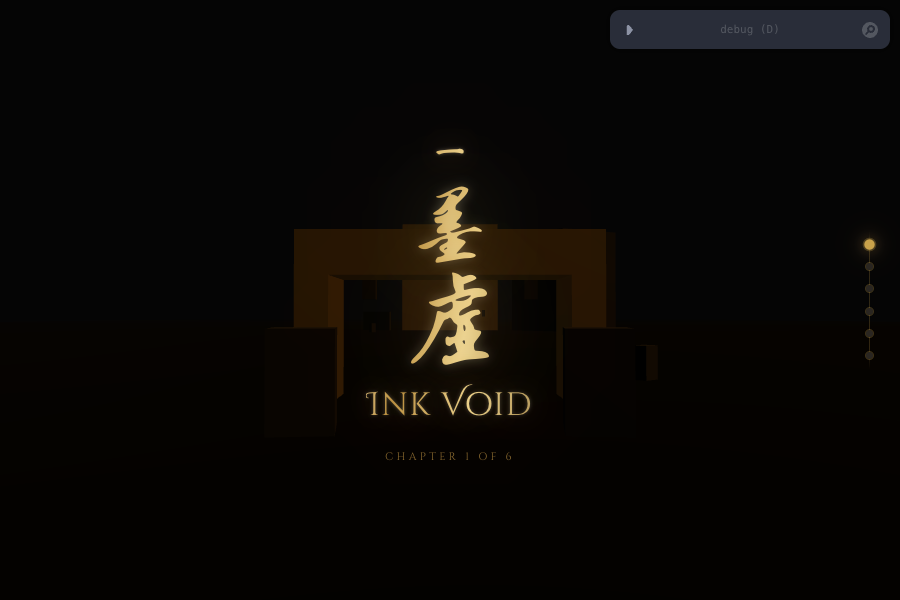
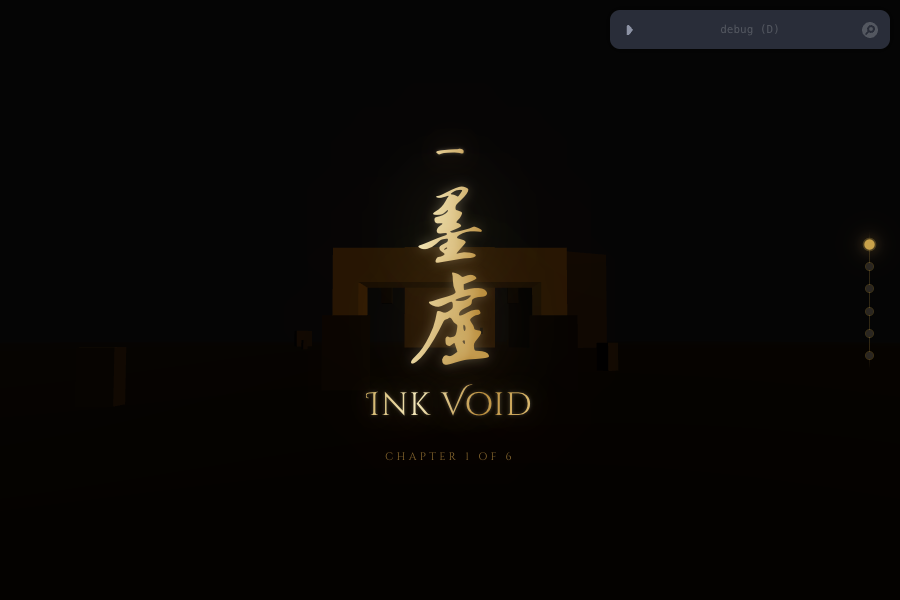
tune: hold names a keypoint instead of a scroll position
Chapter 3's hero frame was empty sky. At the hold the camera sat at
z=-315 — 75 m past the pagoda, already in the hand-off to chapter 4.

Cause: hold.at was a scroll position, but slowing one window makes
everything outside it proportionally faster, so at=0.78 resolved to
0.91 of the path. Same class of bug as the chapter 4 hold earlier.

hold is now { on: <keypoint index>, width, slow } and resolveHoldAt()
solves the fixed point for the scroll position. The hold cannot land
somewhere unintended, and the config reads the way the beat is actually
described: 'hold framed in the gate opening' is hold.on = 3.

Also widened chapter 5's search to ~13 m off the dragon's flank — at
4 m a 40 m body fills the frame, so there was nothing left to reveal —
and moved chapter 6's hold one keypoint earlier so the final settle is
still a distinct frame.

diff --git a/src/config/chapters.ts b/src/config/chapters.ts
@@ -45,11 +45,20 @@ export interface Chapter {
   /** Look-at keypoints. Independent of position, so the camera can orbit. */
   lookAt: Vec3[];
   /**
-   * The hero beat. `at` is 0–1 within the chapter; `width` how much of the
-   * chapter it occupies; `slow` the speed multiplier inside it (0.2 = a fifth
-   * of normal pace, so the camera nearly stops).
+   * The hero beat.
+   *
+   * `on` is the KEYPOINT the camera should be sitting on when it slows —
+   * not a scroll position. That distinction matters: slowing one window makes
+   * everything outside it proportionally faster, so a hold "at 0.78 of the
+   * scroll" lands at 0.91 of the path. Twice now that has silently put a hero
+   * frame in the hand-off to the next chapter. Naming the keypoint and solving
+   * for the scroll position (see resolveHoldAt) makes that impossible.
+   *
+   * `width` is how much of the chapter's scroll the hold occupies (0.3–0.4
+   * reads as a real pause); `slow` is the speed multiplier inside it, where
+   * 0.1 is almost stopped.
    */
-  hold: { at: number; width: number; slow: number };
+  hold: { on: number; width: number; slow: number };
   props: PropPlacement[];
 }
 
@@ -77,8 +86,8 @@ export const CHAPTERS: Chapter[] = [
     // travel, and it doubles as the hand-off to the gate.
     camera: [[0, 1.55, 9], [0, 1.65, 5.2], [0, 1.9, -1.5], [0, 6.0, -16]],
     lookAt: [[0, 1.8, -5], [2.6, 2.0, -7.5], [4.2, 2.0, -7], [0, 2.6, -44]],
-    // Very slow and early — the hold IS the opening, not a pause within it.
-    hold: { at: 0.34, width: 0.4, slow: 0.11 },
+    // On keypoint 1 — the hold IS the opening, not a pause within it.
+    hold: { on: 1, width: 0.4, slow: 0.11 },
     props: [
       // Offset from the camera line: the path runs down x = 0 toward chapter 2.
       { modelId: 'dragon_with_pearl', position: [4.6, 0, -6], rotationY: -0.6, hero: true,
@@ -105,9 +114,8 @@ export const CHAPTERS: Chapter[] = [
     // the opening for the hold.
     lookAt: [[0, 3.4, -110], [-2.6, 1.5, -102.5], [2.6, 1.5, -103.5],
              [0, 3.6, -118], [0, 3.0, -146]],
-    // Lands on the 4th keypoint: framed in the opening, just before pushing
-    // through.
-    hold: { at: 0.64, width: 0.34, slow: 0.2 },
+    // Keypoint 3: framed in the opening, just before pushing through.
+    hold: { on: 3, width: 0.34, slow: 0.2 },
     props: [
       { modelId: 'torri_gate', position: [0, 0, -110], hero: true, hollow: true, label: 'paifang' },
       { modelId: 'stone_lion', position: [-3.6, 0, -103], rotationY: 0.12, label: 'lion' },
@@ -134,8 +142,8 @@ export const CHAPTERS: Chapter[] = [
     // x = +21 as well — that pairing is the reveal.
     lookAt: [[-6, 6, -232], [0, 8, -240], [1, 10, -241], [6, 11, -238],
              [11, 9, -235]],
-    // Late: the hero frame is the rise that reveals both buildings together.
-    hold: { at: 0.78, width: 0.36, slow: 0.26 },
+    // Keypoint 4: the high framing that takes in both buildings.
+    hold: { on: 4, width: 0.36, slow: 0.26 },
     props: [
       { modelId: 'chinese_pagoda', position: [0, 0, -240], hero: true, label: 'pagoda' },
       { modelId: 'fantasy_style_tree', position: [21, 0, -229], rotationY: 0.6, label: 'ginkgo' },
@@ -168,7 +176,7 @@ export const CHAPTERS: Chapter[] = [
     // is the point: the remaining third of the scroll has to cover the push-in
     // AND the exit, so the camera leaves fast. The speed profile only slows —
     // every "sudden" move on the site is a release out of a hold.
-    hold: { at: 0.48, width: 0.34, slow: 0.11 },
+    hold: { on: 3, width: 0.34, slow: 0.11 },
     props: [
       // Thin 1.8 m cylinder: exactly where <JinguBang /> will stand.
       { shape: 'cylinder', size: [0.05, 1.8, 0.05], position: [0, 0, -360], hero: true,
@@ -189,14 +197,18 @@ export const CHAPTERS: Chapter[] = [
     // move — the tension. Keypoints 4 and 5 are 24 m higher and 40 m back:
     // the whole reveal happens in the last third of the scroll, which is what
     // makes it the most violent move on the site.
-    camera: [[11, 2.1, -438], [9.5, 2.0, -450], [7.5, 2.3, -462],
-             [-5, 24, -492], [-15, 34, -518]],
+    // The search runs ~13 m off the dragon's flank. Closer than that and a
+    // 40 m body at 2 m eye height is a wall across the whole frame, which
+    // gives the reveal away — nothing can "appear" if it was already filling
+    // the shot.
+    camera: [[22, 2.1, -436], [19, 2.0, -450], [16, 2.4, -462],
+             [0, 26, -492], [-12, 36, -518]],
     // Searching: left, right, left again while low, then tilts up as the
     // camera is yanked backwards.
-    lookAt: [[-9, 2.0, -456], [10, 1.8, -460], [-5, 2.1, -470],
+    lookAt: [[-6, 2.0, -452], [14, 1.8, -464], [-2, 2.2, -470],
              [0, 7, -478], [0, 4, -482]],
-    // Held low and slow through the search, so the release carries everything.
-    hold: { at: 0.46, width: 0.38, slow: 0.15 },
+    // Keypoint 2: the end of the search, immediately before the pull-back.
+    hold: { on: 2, width: 0.38, slow: 0.15 },
     props: [
       // 40 m along Z — the longest object in the world.
       { modelId: 'chinese_dragon', position: [0, 0, -470], hero: true, label: 'dragon' },
@@ -221,7 +233,7 @@ export const CHAPTERS: Chapter[] = [
     // Late and very slow. This is the only hold placed at the chapter's end:
     // everywhere else the hold releases, here it is the ending, so the last
     // stretch of scroll buys almost no movement and the final frame sits still.
-    hold: { at: 0.86, width: 0.34, slow: 0.1 },
+    hold: { on: 3, width: 0.34, slow: 0.1 },
     props: [
       // The 80 m scan, far back — only ever a fogged silhouette.
       // 82 x 80 x 102 m. Pushed far back: at 60 m it fills the frame and reads
@@ -236,6 +248,64 @@ export const CHAPTERS: Chapter[] = [
     ],
   },
 ];
+
+
+/**
+ * How many segments a chapter's scroll covers. Every chapter but the last runs
+ * through to the FIRST keypoint of the next one, so the transition between
+ * chapters belongs to the outgoing chapter and the path has no gaps. That extra
+ * segment is why a chapter's own last keypoint sits at (n-1)/n of its range,
+ * not at 1.0.
+ */
+export function chapterSegments(i: number): number {
+  const n = CHAPTERS[i].camera.length;
+  return i === CHAPTERS.length - 1 ? n - 1 : n;
+}
+
+/**
+ * Solve for the scroll position whose eased value lands on keypoint `hold.on`.
+ *
+ * The easing depends on where the hold is, and where the hold is depends on the
+ * easing, so this is a fixed point. It converges in a handful of iterations
+ * because the mapping is monotonic and close to the identity.
+ */
+export function resolveHoldAt(i: number): number {
+  const c = CHAPTERS[i];
+  const target = c.hold.on / chapterSegments(i);
+  let at = target;
+  for (let k = 0; k < 40; k++) {
+    const v = easedAt(at, at, c.hold.width, c.hold.slow);
+    const err = v - target;
+    if (Math.abs(err) < 1e-4) break;
+    at = Math.min(0.999, Math.max(0.001, at - err * 0.9));
+  }
+  return at;
+}
+
+/** The eased value at scroll position `u`, for a hold centred at `at`. */
+function easedAt(u: number, at: number, width: number, slow: number): number {
+  const smooth = (a: number, b: number, x: number) => {
+    const t = Math.min(1, Math.max(0, (x - a) / (b - a)));
+    return t * t * (3 - 2 * t);
+  };
+  const speed = (x: number) => {
+    const half = width / 2;
+    const ramp = Math.max(1e-3, half * 0.6);
+    const rise = smooth(at - half - ramp, at - half, x);
+    const fall = 1 - smooth(at + half, at + half + ramp, x);
+    return 1 - (1 - slow) * Math.min(rise, fall);
+  };
+  const N = 257;
+  let acc = 0;
+  const cum = [0];
+  for (let k = 1; k < N; k++) {
+    const a = (k - 1) / (N - 1), b = k / (N - 1);
+    acc += ((speed(a) + speed(b)) / 2) * (b - a);
+    cum.push(acc);
+  }
+  const idx = Math.min(N - 1, Math.max(0, Math.round(u * (N - 1))));
+  return cum[idx] / (acc || 1);
+}
 
 export const TOTAL_SCROLL_VH = CHAPTERS.reduce((s, c) => s + c.scrollVh, 0);
 
@@ -260,47 +330,14 @@ export function chapterAt(progress: number): number {
 /** Global progress at a chapter's start / hold centre / end. Used by tests. */
 export function chapterMarks(i: number) {
   const { start, end } = CHAPTER_RANGES[i];
-  const c = CHAPTERS[i];
   return {
     start,
-    hold: start + (end - start) * c.hold.at,
+    hold: start + (end - start) * resolveHoldAt(i),
     end: end - 1e-4,
   };
 }
 
-/**
- * Where each chapter's hold actually lands on its own keypoint list.
- *
- * `hold.at` is expressed in scroll (u), but what matters is which keypoint the
- * camera is near (v), and the two differ because the hold itself warps the
- * mapping. A chapter whose hero is its 3rd of 5 keypoints needs a much earlier
- * `at` than one whose hero is its last. This is exported so the check can run
- * in a test rather than being rediscovered from a contact sheet.
- */
-export function holdKeypoint(i: number): { v: number; nearestKeypoint: number } {
-  const c = CHAPTERS[i];
-  const { at, width, slow } = c.hold;
-  const smooth = (a: number, b: number, x: number) => {
-    const t = Math.min(1, Math.max(0, (x - a) / (b - a)));
-    return t * t * (3 - 2 * t);
-  };
-  const speed = (u: number) => {
-    const half = width / 2;
-    const ramp = Math.max(1e-3, half * 0.6);
-    const rise = smooth(at - half - ramp, at - half, u);
-    const fall = 1 - smooth(at + half, at + half + ramp, u);
-    return 1 - (1 - slow) * Math.min(rise, fall);
-  };
-  const N = 257;
-  let acc = 0;
-  const cum = [0];
-  for (let k = 1; k < N; k++) {
-    const u0 = (k - 1) / (N - 1), u1 = k / (N - 1);
-    acc += ((speed(u0) + speed(u1)) / 2) * (u1 - u0);
-    cum.push(acc);
-  }
-  const v = cum[Math.round(at * (N - 1))] / (acc || 1);
-  // Keypoints span 0..segments, where the last segment leads into the next chapter.
-  const segments = i === CHAPTERS.length - 1 ? c.camera.length - 1 : c.camera.length;
-  return { v, nearestKeypoint: Math.round(v * segments) };
+/** Reports where each hold resolves to, for the debug panel and checks. */
+export function holdKeypoint(i: number): { at: number; keypoint: number } {
+  return { at: resolveHoldAt(i), keypoint: CHAPTERS[i].hold.on };
 }

diff --git a/src/scene/path.ts b/src/scene/path.ts
@@ -10,7 +10,7 @@
  * path (no stalling, no backtracking) while the *rate* varies.
  */
 import * as THREE from 'three';
-import { CHAPTERS, CHAPTER_RANGES, type Chapter } from '@/config/chapters';
+import { CHAPTERS, CHAPTER_RANGES, resolveHoldAt, type Chapter } from '@/config/chapters';
 
 const smoothstep = (a: number, b: number, x: number) => {
   const t = Math.min(1, Math.max(0, (x - a) / (b - a)));
@@ -18,24 +18,24 @@ const smoothstep = (a: number, b: number, x: number) => {
 };
 
 /** 1 normally, dipping to `slow` inside the hold window, with soft shoulders. */
-function speedAt(u: number, hold: Chapter['hold']): number {
+function speedAt(u: number, hold: Chapter['hold'], at: number): number {
   const half = hold.width / 2;
   const ramp = Math.max(1e-3, half * 0.6);
-  const rise = smoothstep(hold.at - half - ramp, hold.at - half, u);
-  const fall = 1 - smoothstep(hold.at + half, hold.at + half + ramp, u);
+  const rise = smoothstep(at - half - ramp, at - half, u);
+  const fall = 1 - smoothstep(at + half, at + half + ramp, u);
   return 1 - (1 - hold.slow) * Math.min(rise, fall);
 }
 
 const LUT_SIZE = 257;
 
 /** Monotonic u -> v lookup for one chapter, from its speed profile. */
-function buildHoldLut(hold: Chapter['hold']): Float32Array {
+function buildHoldLut(hold: Chapter['hold'], at: number): Float32Array {
   const lut = new Float32Array(LUT_SIZE);
   let acc = 0;
   for (let i = 1; i < LUT_SIZE; i++) {
     const u0 = (i - 1) / (LUT_SIZE - 1);
     const u1 = i / (LUT_SIZE - 1);
-    acc += ((speedAt(u0, hold) + speedAt(u1, hold)) / 2) * (u1 - u0);
+    acc += ((speedAt(u0, hold, at) + speedAt(u1, hold, at)) / 2) * (u1 - u0);
     lut[i] = acc;
   }
   for (let i = 0; i < LUT_SIZE; i++) lut[i] /= acc || 1;
@@ -81,7 +81,7 @@ export const lookCurve = new THREE.CatmullRomCurve3(
 
 const cameraSpans = buildSpans(counts);
 const lookSpans = buildSpans(lookCounts);
-const holdLuts = CHAPTERS.map((c) => buildHoldLut(c.hold));
+const holdLuts = CHAPTERS.map((c, i) => buildHoldLut(c.hold, resolveHoldAt(i)));
 
 /**
  * Map global scroll progress to a curve parameter, applying the chapter's hold.

diff --git a/src/App.tsx b/src/App.tsx
@@ -7,6 +7,8 @@ import { progress } from '@/scroll/progress';
 import { CHAPTERS, CHAPTER_RANGES, chapterMarks } from '@/config/chapters';
 import { setDebugSettings } from '@/ui/debugStore';
 import { auditPath, auditSummary } from '@/scene/audit';
+import { cameraAt, lookAtAt, pathT } from '@/scene/path';
+import { Vector3 } from 'three';
 
 /**
  * `?capture=1` hands control of progress to the test hook and stops the scroll
@@ -30,6 +32,17 @@ export default function App() {
     w.__captureMode = CAPTURE;
     w.__auditPath = auditPath;
     w.__auditSummary = auditSummary;
+    // Camera + aim at an arbitrary progress, without having to drive the page.
+    w.__pathState = (v: number) => {
+      const c = cameraAt(v, new Vector3());
+      const a = lookAtAt(v, new Vector3());
+      return {
+        progress: +v.toFixed(3),
+        camera: [+c.x.toFixed(1), +c.y.toFixed(1), +c.z.toFixed(1)],
+        lookAt: [+a.x.toFixed(1), +a.y.toFixed(1), +a.z.toFixed(1)],
+        pathT: +pathT(v).toFixed(3),
+      };
+    };
     if (CAPTURE) {
       setDebugSettings({ showStats: false });
       document.documentElement.dataset.capture = '1';
